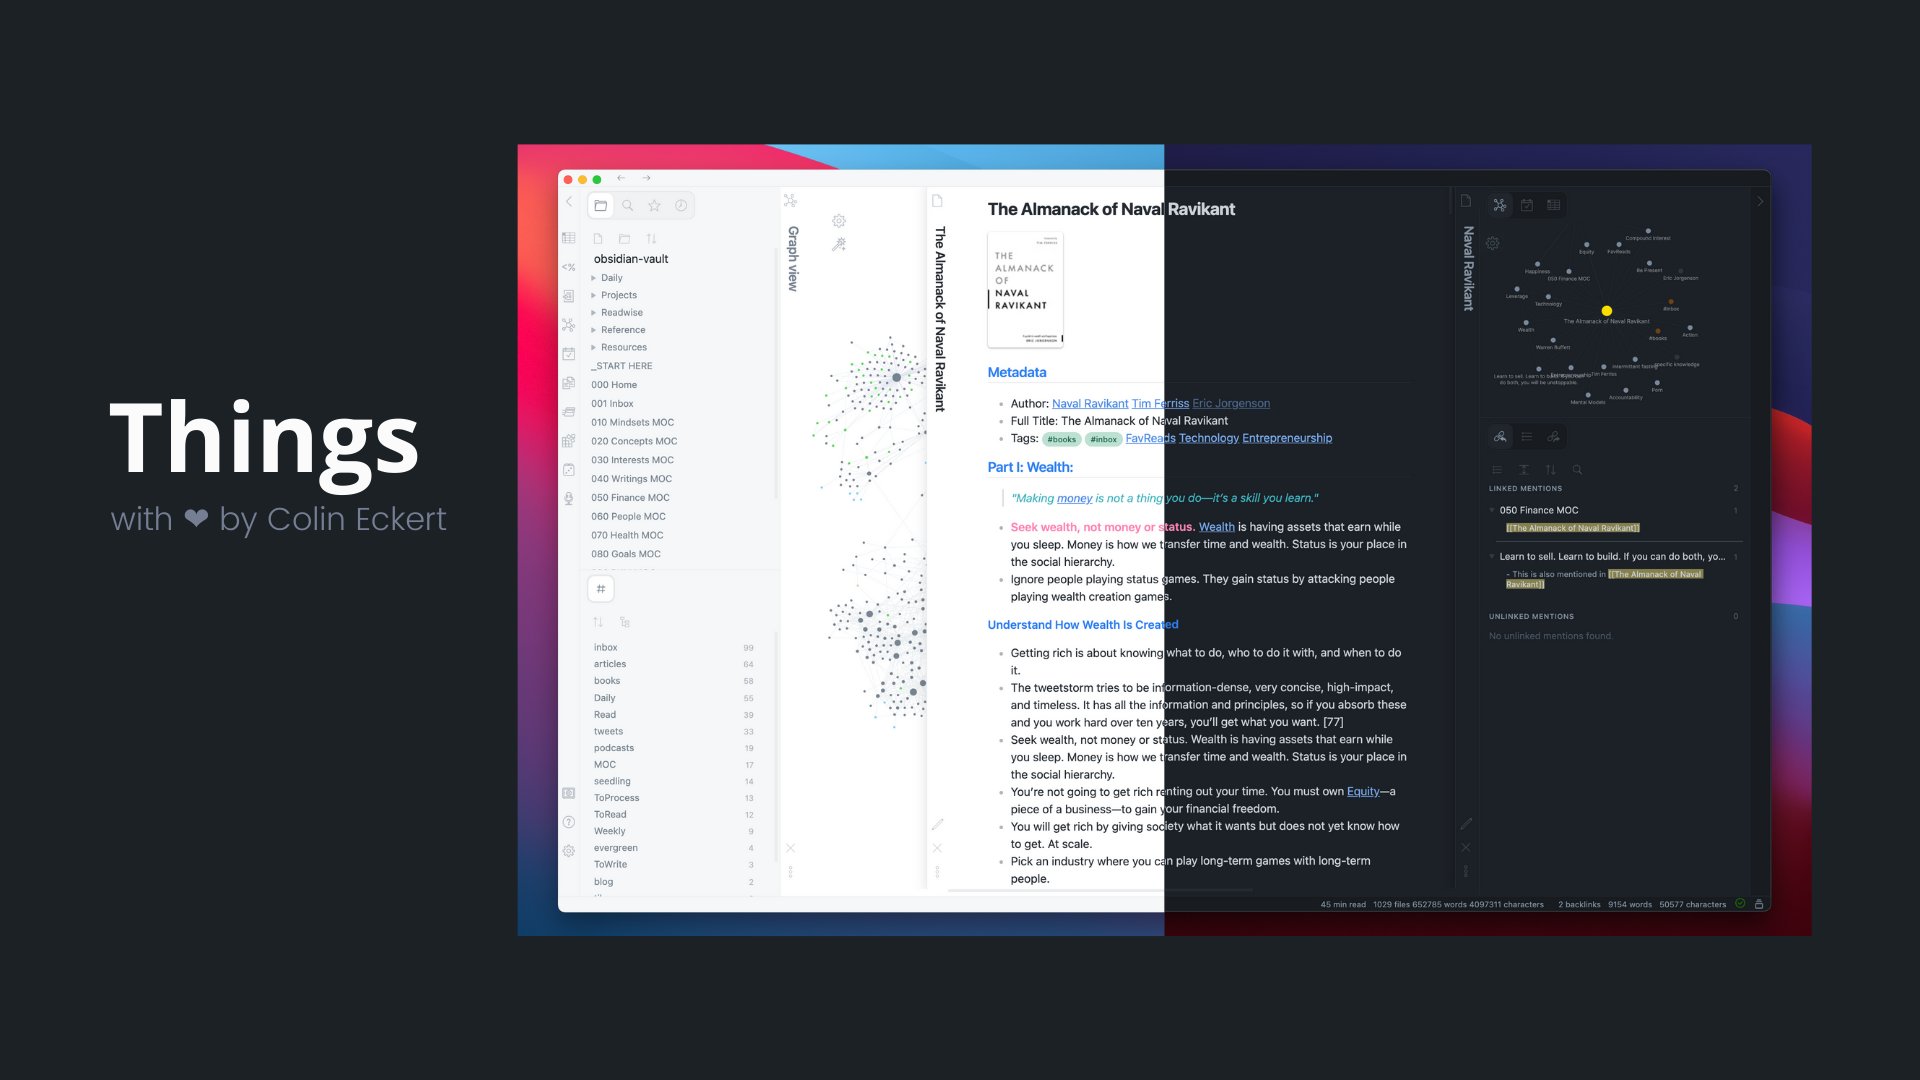
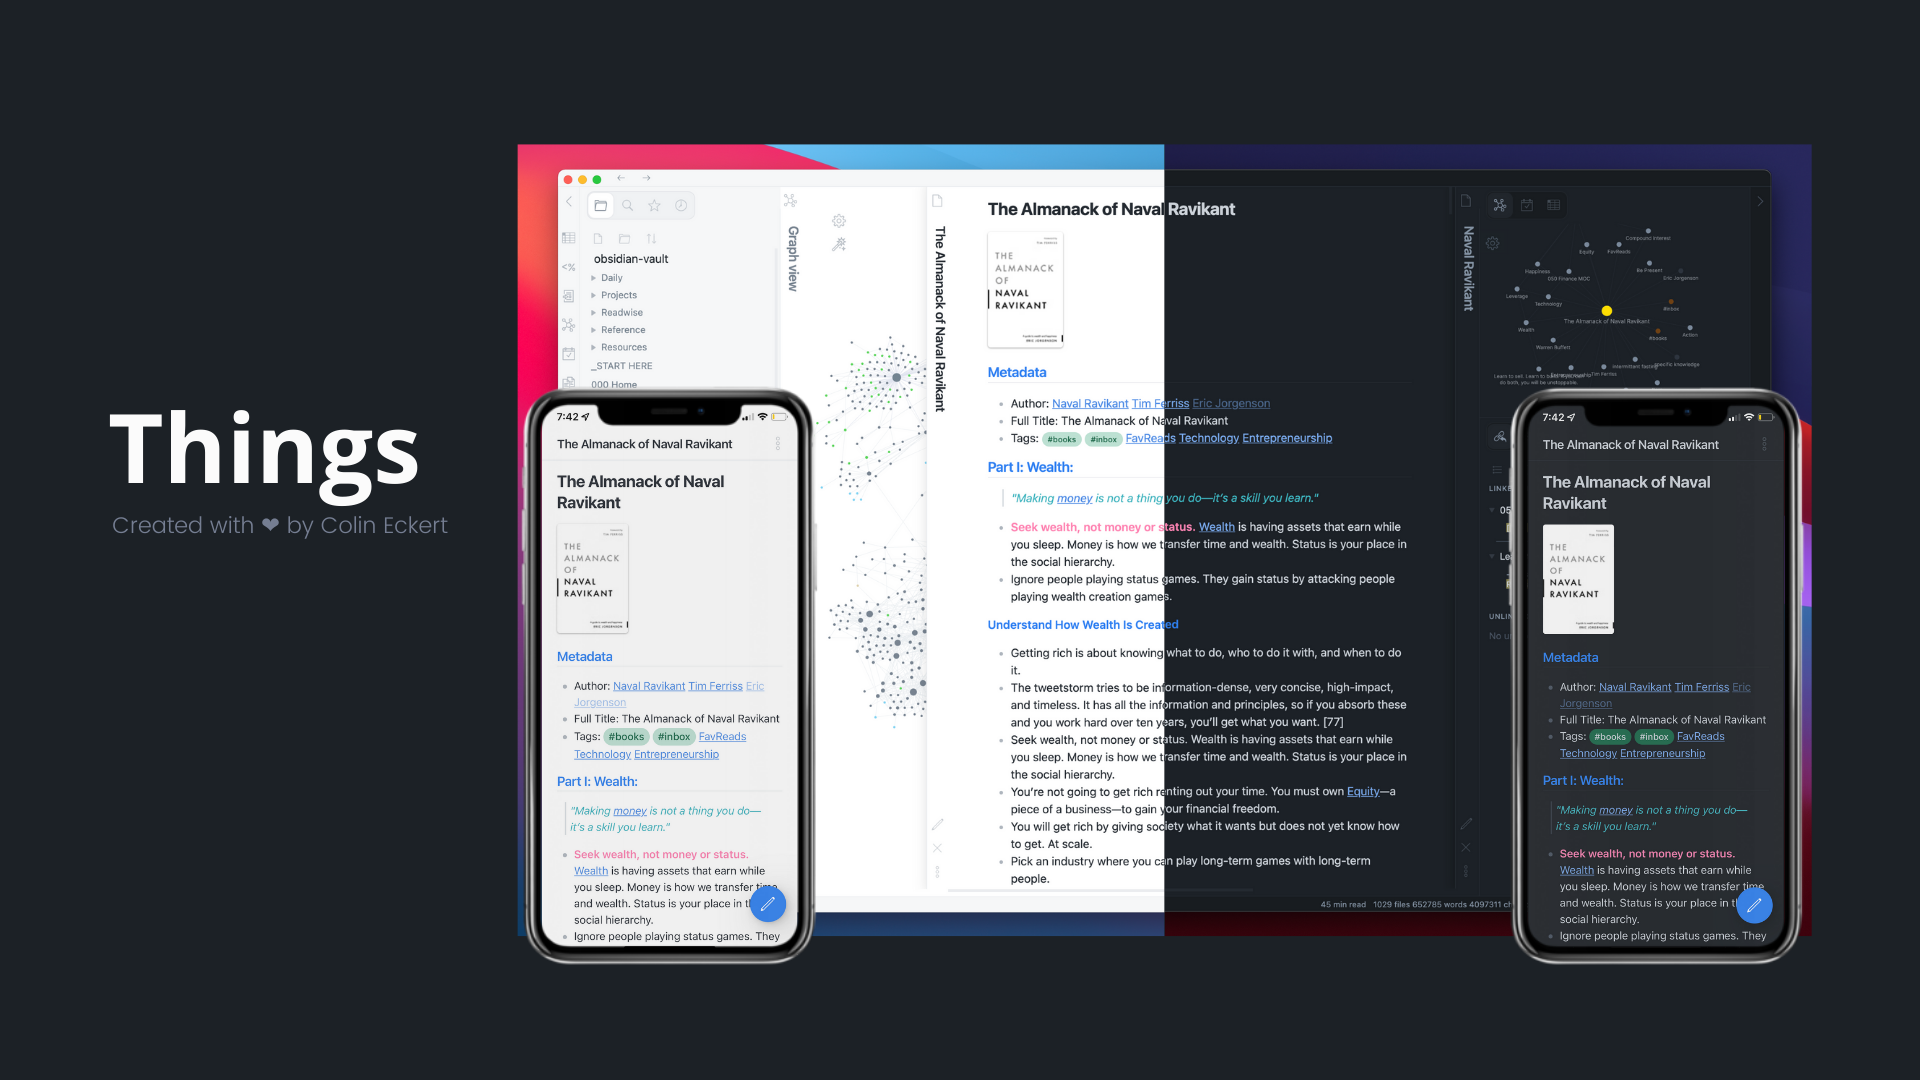
Add quick edit mobile button, update readme and demo image

Changed region(s): [[0.0312, 0.3361, 0.4375, 0.9167], [0.7812, 0.3361, 0.9375, 0.9167]]

diff --git a/obsidian.css b/obsidian.css
@@ -3833,7 +3833,7 @@ body:not(.is-ios).is-mobile .workspace-drawer-ribbon {
     padding: 40px 0 20px 0;
   }
   .is-mobile .view-header-title {
-    max-width: 70vw;
+    max-width: 80vw;
   }
   .is-mobile .view-header-title {
     padding-right: 20px;
@@ -3915,6 +3915,44 @@ body:not(.is-ios).is-mobile .workspace-drawer-ribbon {
   .is-mobile .publish-changes-switch-site {
     flex-grow: 0;
     margin-right: 10px;
+  }
+}
+
+/* ---------------- */
+/* Mobile toolbar button */
+/* ---------------- */
+
+.is-mobile [aria-label="Edit (⌘+Click to edit in new pane)"],
+.is-mobile [aria-label="Edit (Ctrl+Click to edit in new pane)"],
+.is-mobile [aria-label="Preview (⌘+Click to open in new pane)"],
+.is-mobile [aria-label="Preview (Ctrl+Click to open in new pane)"] {
+  color: white;
+  background-color: var(--blue);
+  opacity: 1;
+  /* filter: brightness(97%); */
+  top: calc(90vh - 48px);
+  display: flex;
+  padding: 5px;
+  position: absolute;
+  left: 87vw;
+  transform: translate(-40%, -15%);
+  justify-content: center;
+  align-items: center;
+  width: 53px;
+  height: 53px;
+  border-radius: 50% !important;
+  box-shadow: 0.9px 0.9px 3.6px rgba(0, 0, 0, 0.07),
+    2.5px 2.4px 10px rgba(0, 0, 0, 0.1), 6px 5.7px 24.1px rgba(0, 0, 0, 0.13),
+    20px 19px 80px rgba(0, 0, 0, 0.2);
+}
+
+/* Shrink FAB on small displays */
+@media screen and (max-height: 400px) {
+  [aria-label="Edit (⌘+Click to edit in new pane)"],
+  [aria-label="Edit (Ctrl+Click to edit in new pane)"],
+  [aria-label="Preview (⌘+Click to open in new pane)"],
+  [aria-label="Preview (Ctrl+Click to open in new pane)"] {
+    transform: scale(0.8) translate(-50%, -50%);
   }
 }
 

diff --git a/README.md b/README.md
@@ -14,7 +14,7 @@ I love [Things 3](https://culturedcode.com/things/). It's been the task manager 
 
 - Things-inspired color palette
 - Light and dark theme
-- Desktop and mobile support
+- Quick preview/edit mode button in mobile
 - Customizable colors for bold, italic, highlighters, and block-quotes
 - Tag pills for readability
 - Better designed image cards
